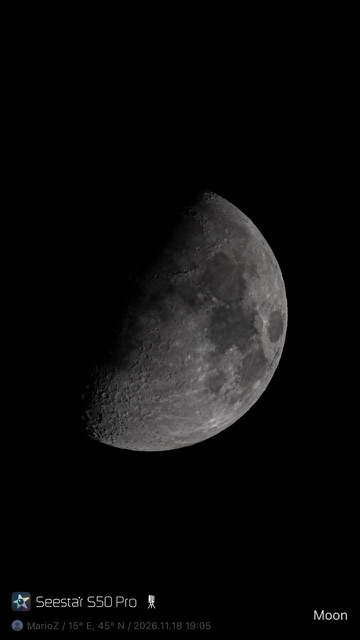
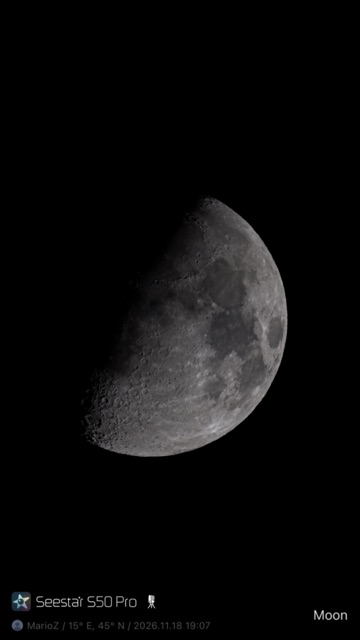
Full resolution Moon 2x

diff --git a/gallery-data.js b/gallery-data.js
@@ -276,9 +276,9 @@ window.GALLERY_DATA = {
       "title": "The Moon",
       "title_hr": "Mjesec",
       "date": "2026-11-18",
-      "time": "19:05",
-      "caption": "2× zoom on the terminator · captured 18 Nov 2026, 19:05.",
-      "caption_hr": "Povećanje 2× na terminatoru · snimljeno 18. 11. 2026. u 19:05.",
+      "time": "19:07",
+      "caption": "2× zoom on the terminator · captured 18 Nov 2026, 19:07.",
+      "caption_hr": "Povećanje 2× na terminatoru · snimljeno 18. 11. 2026. u 19:07.",
       "group": "moon",
       "integration": null,
       "variant": "2x",
